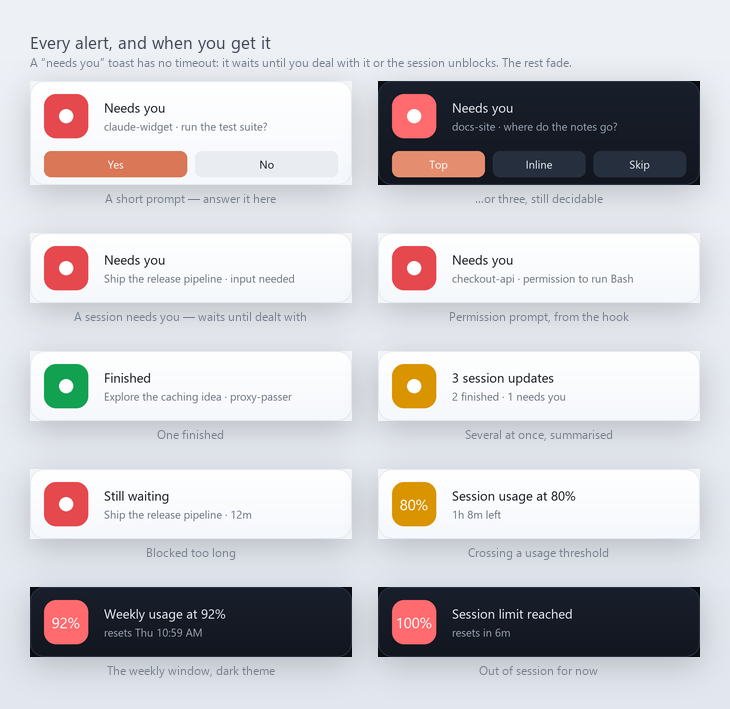
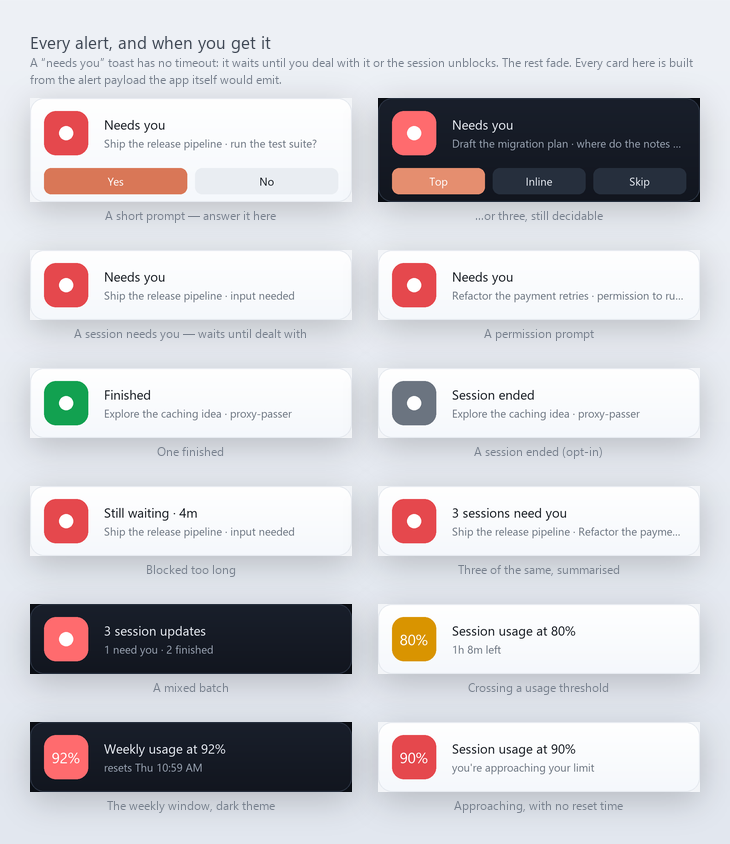
Make the sheets show what the app emits, not what I wrote
Checking rather than assuming turned up three toasts depicting strings the
app never sends. The stuck alert puts its dwell in the TITLE — "Still waiting
· 4m" — where the sheet had "Still waiting" and moved the dwell into the
subtitle. A subtitle names the SESSION and its reason, so a permission prompt
reads "Refactor the payment retries · permission to run Bash", not the
project name the sheet led with. And a mixed batch reads "1 need you · 2
finished", where the sheet had invented the tidier "2 finished · 1 needs you".

All of them plausible, none of them real. A screenshot of a string the app
never emits is worse than no screenshot: it is a confident answer to "what
will I see?" that happens to be wrong.

Every toast is now built from sessions_core's own alert payload — alert_for,
alert_for_stuck, coalesce_alerts — so the sheet cannot drift from the app
without the app changing. Same for the per-model rows and the plan badge,
which now come through usage_core.format_breakdown rather than being typed
out. Two states that only the real builders produce came along with that: a
session ending (grey), and a batch of three of the same kind.

The footer wording, the plan labels and the status strings were checked the
same way and were already right.

tests/test_gallery.py runs every generator, which is what makes the README's
claim true rather than aspirational: a state that stops working now stops
generating. It also pins the four strings that were wrong, each confirmed to
[…]

diff --git a/assets/make_gallery.py b/assets/make_gallery.py
@@ -272,40 +272,69 @@ def contrast_gallery():
 # Toasts
 # --------------------------------------------------------------------------- #
 def toast_gallery():
-    def toast(pct, title, sub, color, theme="light"):
-        return render.render_toast(pct, title, sub, color, theme)
+    """Built from sessions_core's own alert payloads, not from prose.
+
+    Hand-writing these got three of them wrong — the stuck toast puts its
+    dwell in the TITLE, a subtitle names the session rather than its project,
+    and a mixed batch reads "1 need you · 2 finished" rather than the tidier
+    thing one would invent. A screenshot of a string the app never emits is
+    worse than no screenshot.
+    """
+    def card(payload, theme="light", **kw):
+        return render.render_toast(None, payload["title"], payload["subtitle"],
+                                   payload["color"], theme, **kw)
+
+    def alert(session, after):
+        return sc.alert_for(sc.Transition("status", session, sc.BUSY, after))
+
+    blocked = sessions(("Ship the release pipeline", "claude-widget", W, 240,
+                        "input needed"))[0]
+    perm = sessions(("Refactor the payment retries", "checkout-api", W, 35,
+                     "permission to run Bash"))[0]
+    tests = sessions(("Ship the release pipeline", "claude-widget", W, 20,
+                      "run the test suite?"))[0]
+    notes = sessions(("Draft the migration plan", "docs-site", W, 20,
+                      "where do the notes go?"))[0]
+    done = sessions(("Explore the caching idea", "proxy-passer", I, 1560, ""))[0]
+    also = sessions(("Draft the migration plan", "docs-site", I, 30, ""))[0]
+
+    needs = alert(blocked, W)
+    finished = alert(done, I)
+    same_kind = [needs, alert(perm, W),
+                 alert(sessions(("Tidy the changelog", "web", W, 90,
+                                 "input needed"))[0], W)]
+    mixed = [needs, finished, alert(also, I)]
 
     items = [
         ("A short prompt — answer it here",
-         render.render_toast(None, "Needs you",
-                             "claude-widget · run the test suite?", "red",
-                             "light", choices=("Yes", "No"))),
+         card(alert(tests, W), choices=("Yes", "No"))),
         ("…or three, still decidable",
-         render.render_toast(None, "Needs you",
-                             "docs-site · where do the notes go?", "red",
-                             "dark", choices=("Top", "Inline", "Skip"))),
-        ("A session needs you — waits until dealt with",
-         toast(None, "Needs you", "Ship the release pipeline · input needed", "red")),
-        ("Permission prompt, from the hook",
-         toast(None, "Needs you",
-               "checkout-api · permission to run Bash", "red")),
-        ("One finished",
-         toast(None, "Finished", "Explore the caching idea · proxy-passer", "green")),
-        ("Several at once, summarised",
-         toast(None, "3 session updates", "2 finished · 1 needs you", "amber")),
-        ("Blocked too long",
-         toast(None, "Still waiting", "Ship the release pipeline · 12m", "red")),
+         card(alert(notes, W), "dark", choices=("Top", "Inline", "Skip"))),
+        ("A session needs you — waits until dealt with", card(needs)),
+        ("A permission prompt", card(alert(perm, W))),
+        ("One finished", card(finished)),
+        ("A session ended (opt-in)",
+         card(sc.alert_for(sc.Transition("gone", done)))),
+        ("Blocked too long", card(sc.alert_for_stuck(blocked))),
+        ("Three of the same, summarised",
+         card(sc.coalesce_alerts(same_kind))),
+        ("A mixed batch", card(sc.coalesce_alerts(mixed), "dark")),
         ("Crossing a usage threshold",
-         toast(80, "Session usage at 80%", "1h 8m left", "amber")),
+         render.render_toast(80, "Session usage at 80%", "1h 8m left",
+                             "amber", "light")),
         ("The weekly window, dark theme",
-         toast(92, "Weekly usage at 92%", "resets Thu 10:59 AM", "red", "dark")),
-        ("Out of session for now",
-         toast(100, "Session limit reached", "resets in 6m", "red", "dark")),
+         render.render_toast(92, "Weekly usage at 92%", "resets Thu 10:59 AM",
+                             "red", "dark")),
+        ("Approaching, with no reset time",
+         render.render_toast(90, "Session usage at 90%",
+                             "you're approaching your limit", "red", "light")),
     ]
     grid_sheet(items, "gallery-toasts.png", "Every alert, and when you get it",
                cols=2,
-               note="A “needs you” toast has no timeout: it waits until "
-                    "you deal with it or the session unblocks. The rest fade.")
+               note="A “needs you” toast has no timeout: it waits until you "
+                    "deal with it or the session unblocks. The rest fade. "
+                    "Every card here is built from the alert payload the app "
+                    "itself would emit.")
 
 
 # --------------------------------------------------------------------------- #
@@ -344,9 +373,18 @@ def popover_gallery():
         d.update(extra)
         return d
 
-    models = [{"label": "Opus", "pct": 71, "color": "amber"},
-              {"label": "Sonnet", "pct": 23, "color": "green"},
-              {"label": "Fable", "pct": 4, "color": "green"}]
+    # Through format_breakdown, so the row labels and their colour thresholds
+    # are the app's rather than mine.
+    scoped = uc.Usage(
+        limits=[uc.Limit("session", "session", 61.0, "normal",
+                         t + timedelta(minutes=82), None, True),
+                uc.Limit("weekly_all", "weekly", 18.0, "normal",
+                         t + timedelta(days=3), None, False)]
+        + [uc.Limit("weekly_scoped", "weekly", pct, "normal",
+                    t + timedelta(days=3), name, False)
+           for name, pct in (("Opus", 71.0), ("Sonnet", 23.0), ("Fable", 4.0))],
+        plan="max", rate_tier="default_claude_max_5x")
+    models = uc.format_breakdown(scoped)["model_rows"]
 
     items = [
         ("Usage only", pop(usage)),
@@ -374,7 +412,8 @@ def popover_gallery():
                                "dot": "green"}, **full))),
         ("Before the first poll",
          pop(dict(usage, foot={"text": "Auto-updating", "dot": "green"}))),
-        ("Pro plan", pop(dict(usage, plan="Plan: Pro"))),
+        ("Pro plan", pop(dict(usage, plan=uc.format_breakdown(
+            uc.Usage(limits=[], plan="pro", rate_tier=""))["plan"]))),
         ("Dark", pop(dict(usage, **full), "dark")),
         ("Offline", pop(status(uc.Status.OFFLINE))),
         ("Not logged in", pop(status(uc.Status.NO_CREDS))),

diff --git a/tests/test_gallery.py b/tests/test_gallery.py
@@ -1,0 +1,93 @@
+"""The README's reference sheets.
+
+The README claims every image is a real render through the app's own code, so
+a state that stops working stops generating rather than quietly shipping a
+picture of something that no longer exists. That is only true if the
+generators are actually exercised, which is what this does.
+
+It also pins the handful of strings the sheets would otherwise be tempted to
+hand-write. Three of them were wrong before this existed: the stuck toast puts
+its dwell in the title, a subtitle names the session rather than its project,
+and a mixed batch reads "1 need you · 2 finished". A screenshot of a string
+the app never emits is worse than no screenshot at all.
+"""
+
+import sys
+from pathlib import Path
+
+import pytest
+
+sys.path.insert(0, str(Path(__file__).resolve().parents[1] / "assets"))
+
+import sessions_core as sc          # noqa: E402
+
+gallery = pytest.importorskip("make_gallery", reason="needs Pillow")
+
+
+def _session(title="Ship the release pipeline", project="claude-widget",
+             status=sc.WAITING, age=240, reason="input needed"):
+    return sc.Session(session_id="s", pid=4242, cwd=f"/work/{project}",
+                      name=f"{project}-1", title=title, status=status,
+                      waiting_for=reason,
+                      status_updated_at=sc.now_ms() - age * 1000)
+
+
+# --------------------------------------------------------------------------- #
+# Every sheet still generates
+# --------------------------------------------------------------------------- #
+@pytest.mark.parametrize("name", ["strip_gallery", "contrast_gallery",
+                                  "toast_gallery", "popover_gallery",
+                                  "rows_gallery", "tray_gallery"])
+def test_the_sheet_still_generates(name, tmp_path, monkeypatch):
+    monkeypatch.setattr(gallery, "OUT", str(tmp_path))
+    getattr(gallery, name)()
+    written = list(tmp_path.glob("*.png"))
+    if name == "tray_gallery" and not written:
+        pytest.skip("pystray unavailable, so there is no tray to draw")
+    assert written, f"{name} produced nothing"
+    assert all(p.stat().st_size > 1000 for p in written), "a blank sheet"
+
+
+# --------------------------------------------------------------------------- #
+# The strings on those sheets are the app's, not the author's
+# --------------------------------------------------------------------------- #
+def test_the_stuck_alert_carries_its_dwell_in_the_title():
+    payload = sc.alert_for_stuck(_session(age=12 * 60))
+    assert payload["title"].startswith("Still waiting · "), (
+        "the sheet said 'Still waiting' with the dwell in the subtitle; the "
+        "app puts it in the title")
+    assert payload["subtitle"] == "Ship the release pipeline · input needed"
+
+
+def test_an_alert_subtitle_names_the_session_not_the_project():
+    payload = sc.alert_for(sc.Transition(
+        "status", _session("Refactor the payment retries", "checkout-api",
+                           reason="permission to run Bash"),
+        sc.BUSY, sc.WAITING))
+    assert payload["subtitle"].startswith("Refactor the payment retries · "), (
+        "the sheet led with the project, which is not what the app sends")
+
+
+def test_a_mixed_batch_reads_the_way_the_app_writes_it():
+    blocked = sc.alert_for(sc.Transition("status", _session(), sc.BUSY, sc.WAITING))
+    done = [sc.alert_for(sc.Transition(
+        "status", _session(f"Done {n}", "p", sc.IDLE, 30, ""), sc.BUSY, sc.IDLE))
+        for n in range(2)]
+    merged = sc.coalesce_alerts([blocked] + done)
+    assert merged["title"] == "3 session updates"
+    assert merged["subtitle"] == "1 need you · 2 finished", (
+        "the sheet invented a tidier wording than the app's")
+
+
+def test_a_batch_of_one_kind_counts_that_kind():
+    alerts = [sc.alert_for(sc.Transition("status", _session(f"S{n}"),
+                                         sc.BUSY, sc.WAITING))
+              for n in range(3)]
+    assert sc.coalesce_alerts(alerts)["title"] == "3 sessions need you"
+
+
+def test_the_ended_alert_is_grey_and_says_so():
+    payload = sc.alert_for(sc.Transition(
+        "gone", _session("Explore the caching idea", "proxy-passer",
+                         sc.IDLE, 1560, "")))
+    assert payload["title"] == "Session ended" and payload["color"] == "grey"
